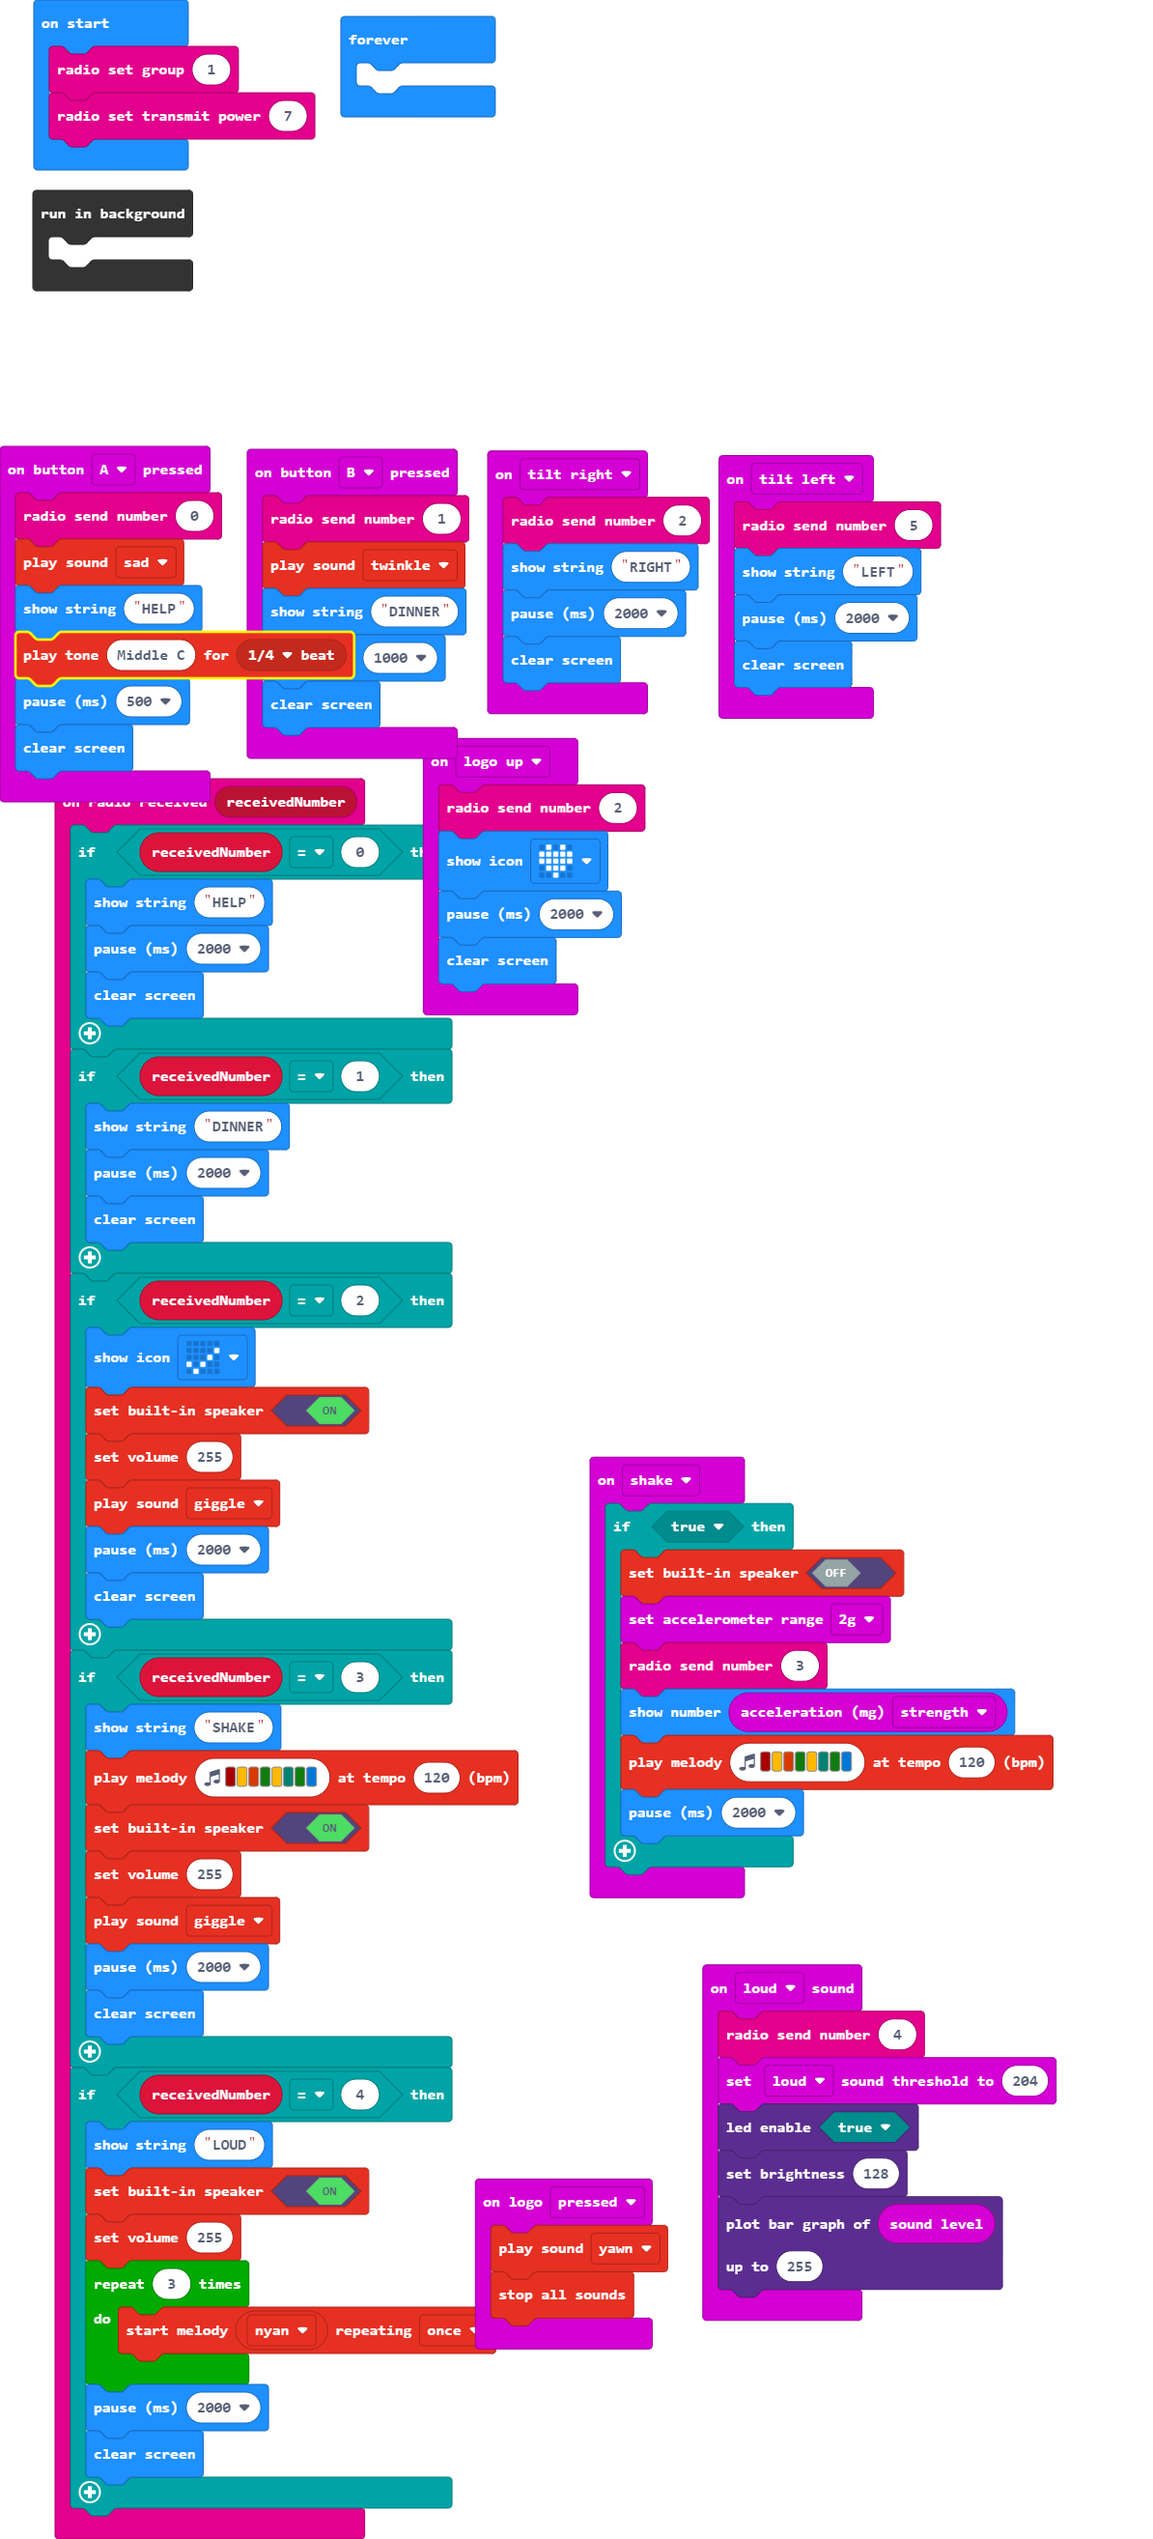
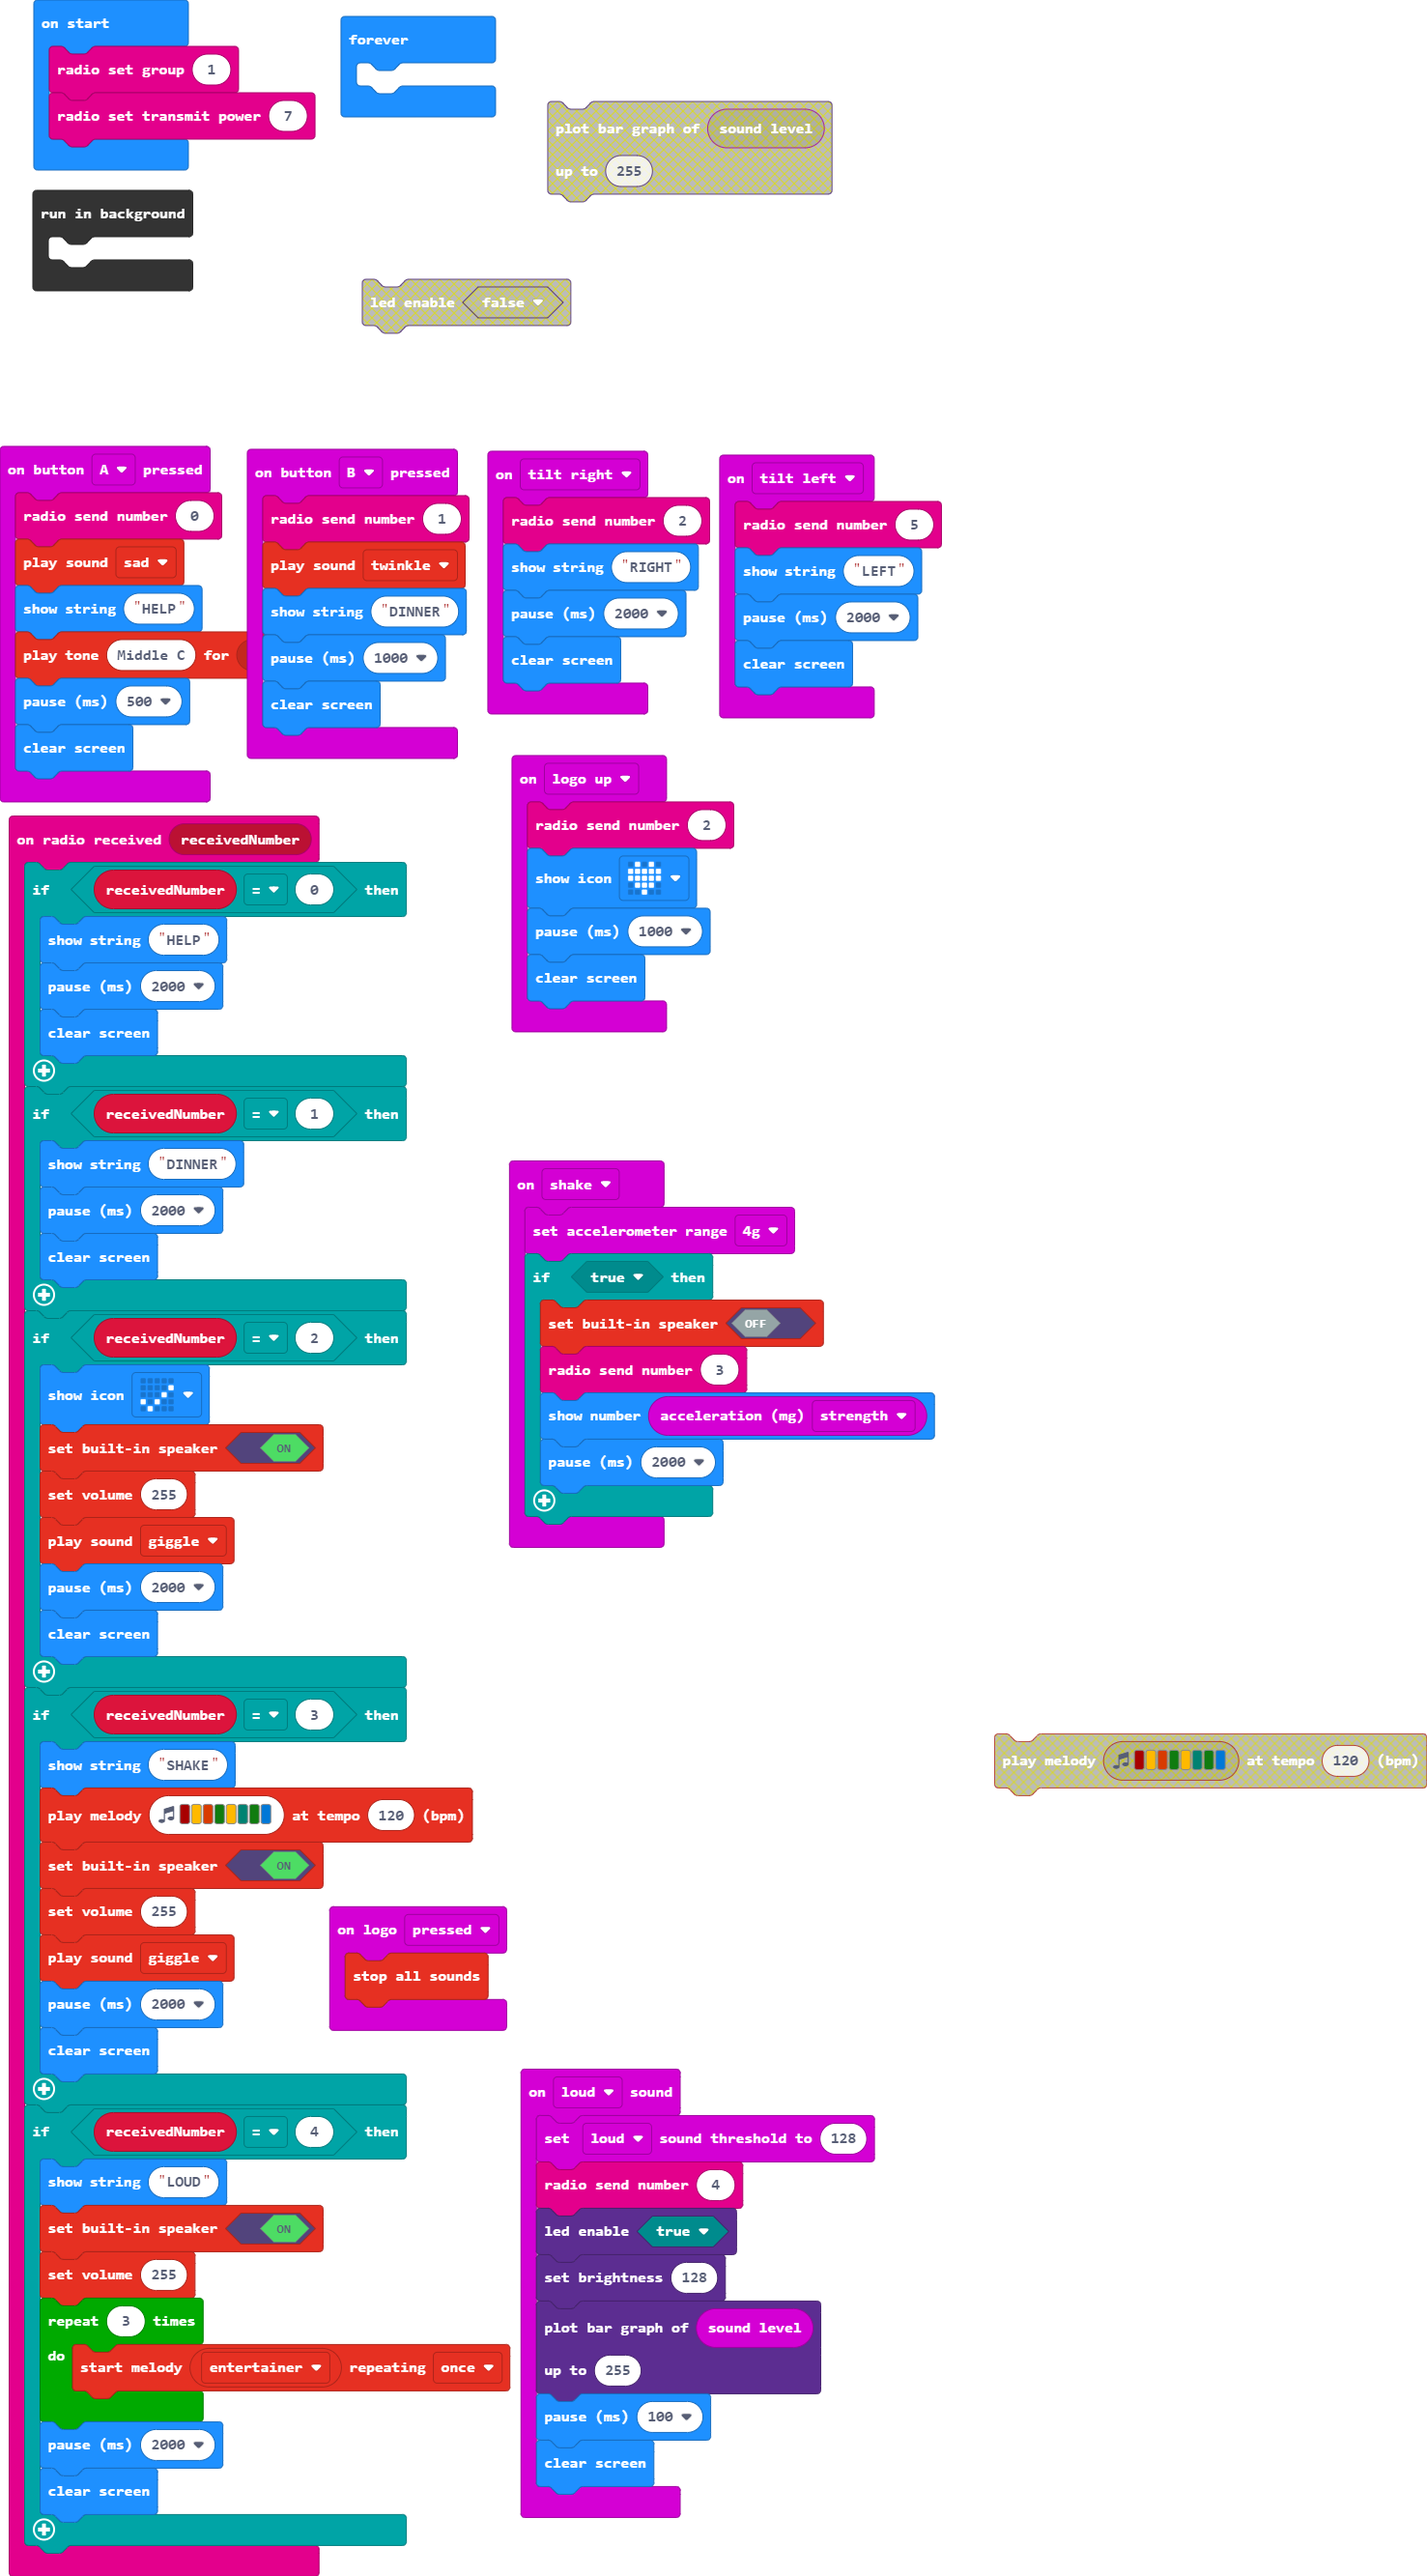
Update pxt.json, main.blocks, main.ts

diff --git a/main.ts b/main.ts
@@ -31,7 +31,7 @@ radio.onReceivedNumber(function (receivedNumber) {
         music.setBuiltInSpeakerEnabled(true)
         music.setVolume(255)
         for (let index = 0; index < 3; index++) {
-            music.startMelody(music.builtInMelody(Melodies.Nyan), MelodyOptions.Once)
+            music.startMelody(music.builtInMelody(Melodies.Entertainer), MelodyOptions.Once)
         }
         basic.pause(2000)
         basic.clearScreen()
@@ -48,7 +48,7 @@ input.onButtonPressed(Button.A, function () {
 input.onGesture(Gesture.LogoUp, function () {
     radio.sendNumber(2)
     basic.showIcon(IconNames.Heart)
-    basic.pause(2000)
+    basic.pause(1000)
     basic.clearScreen()
 })
 input.onGesture(Gesture.TiltLeft, function () {
@@ -58,14 +58,16 @@ input.onGesture(Gesture.TiltLeft, function () {
     basic.clearScreen()
 })
 input.onSound(DetectedSound.Loud, function () {
+    input.setSoundThreshold(SoundThreshold.Loud, 128)
     radio.sendNumber(4)
-    input.setSoundThreshold(SoundThreshold.Loud, 204)
     led.enable(true)
     led.setBrightness(128)
     led.plotBarGraph(
     input.soundLevel(),
     255
     )
+    basic.pause(100)
+    basic.clearScreen()
 })
 input.onButtonPressed(Button.B, function () {
     radio.sendNumber(1)
@@ -75,12 +77,11 @@ input.onButtonPressed(Button.B, function () {
     basic.clearScreen()
 })
 input.onGesture(Gesture.Shake, function () {
+    input.setAccelerometerRange(AcceleratorRange.FourG)
     if (true) {
         music.setBuiltInSpeakerEnabled(false)
-        input.setAccelerometerRange(AcceleratorRange.TwoG)
         radio.sendNumber(3)
         basic.showNumber(input.acceleration(Dimension.Strength))
-        music.playMelody("C5 A B G A F G E ", 120)
         basic.pause(2000)
     }
 })
@@ -91,7 +92,6 @@ input.onGesture(Gesture.TiltRight, function () {
     basic.clearScreen()
 })
 input.onLogoEvent(TouchButtonEvent.Pressed, function () {
-    soundExpression.yawn.play()
     music.stopAllSounds()
 })
 radio.setGroup(1)
